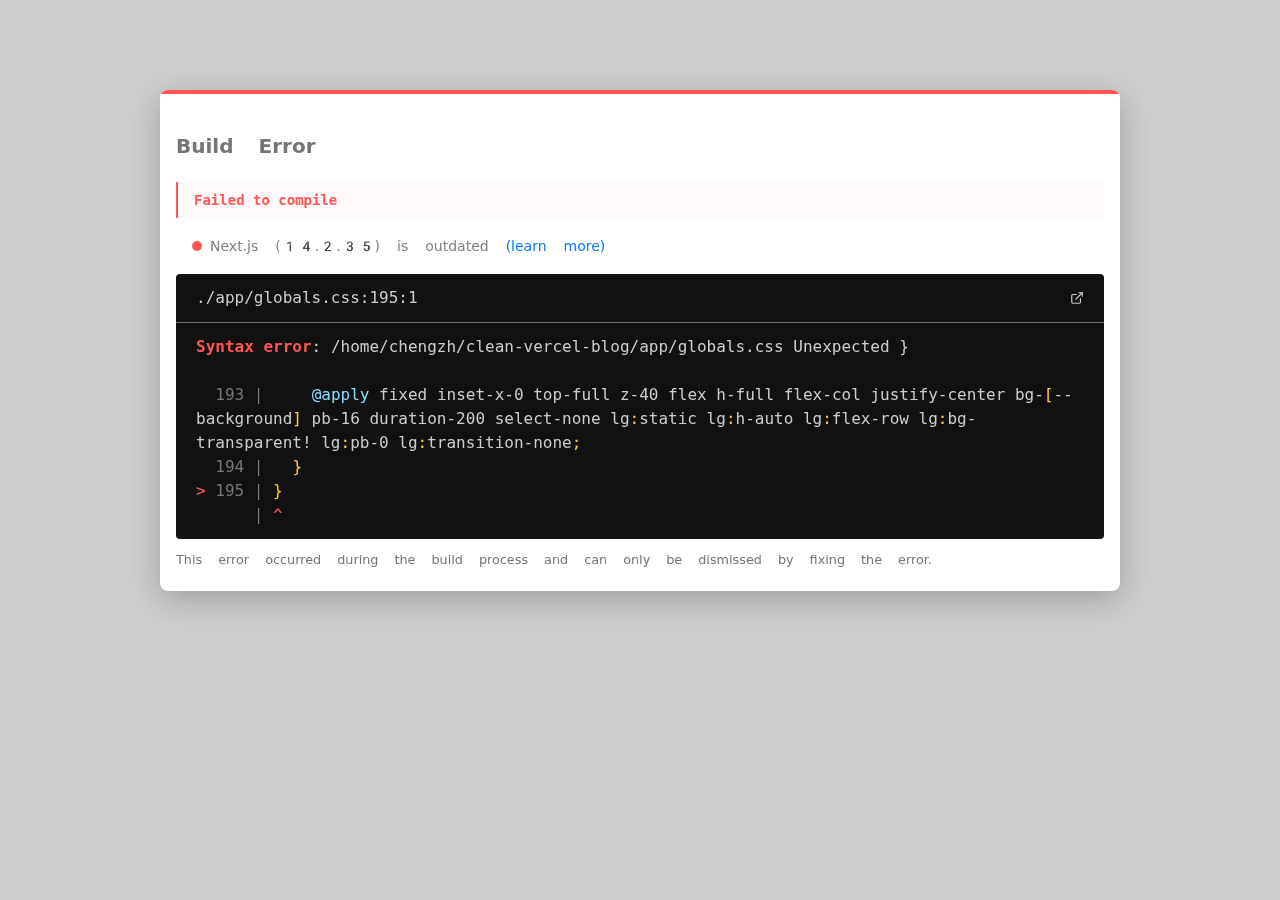
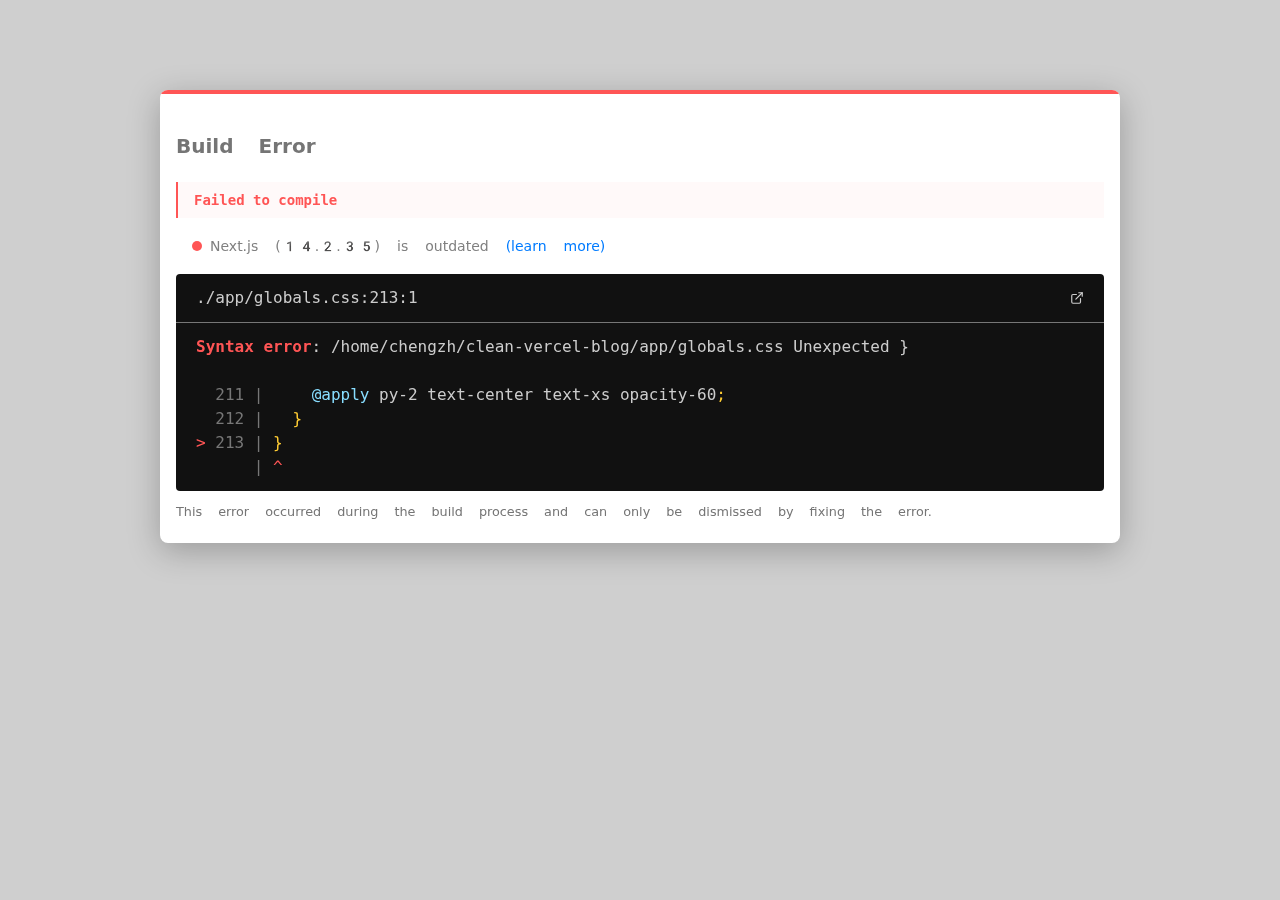
Tailwind: refine header/nav/footer spacing and link styles

Changed region(s): [[0.125, 0.4356, 0.875, 0.6844], [0.2812, 0.3111, 0.3125, 0.3422]]

diff --git a/app/globals.css b/app/globals.css
@@ -192,4 +192,22 @@
   .nav-wrapper {
     @apply fixed inset-x-0 top-full z-40 flex h-full flex-col justify-center bg-[--background] pb-16 duration-200 select-none lg:static lg:h-auto lg:flex-row lg:bg-transparent! lg:pb-0 lg:transition-none;
   }
+
+  /* Header & nav refinements to match Hugo spacing */
+  header a.text-2xl {
+    @apply text-2xl font-medium leading-none;
+  }
+
+  .nav-wrapper nav a {
+    @apply text-heading-text lg:text-base lg:font-normal;
+    text-decoration-thickness: 1px;
+  }
+
+  .nav-wrapper nav a:hover {
+    text-decoration: underline;
+  }
+
+  footer {
+    @apply py-2 text-center text-xs opacity-60;
+  }
 }
